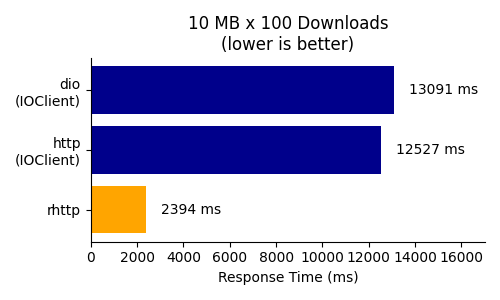
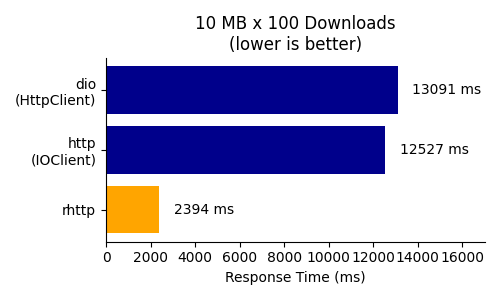
benchmark: use correct client name

diff --git a/benchmark/generate_png.py b/benchmark/generate_png.py
@@ -1,7 +1,7 @@
 import matplotlib.pyplot as plt
 
 # Data setup
-libraries = ['rhttp', 'http\n(IOClient)', 'dio\n(IOClient)']
+libraries = ['rhttp', 'http\n(IOClient)', 'dio\n(HttpClient)']
 colors = ['orange', 'darkblue', 'darkblue']  # Color configuration
 
 title = '10 MB x 100 Downloads\n(lower is better)'
